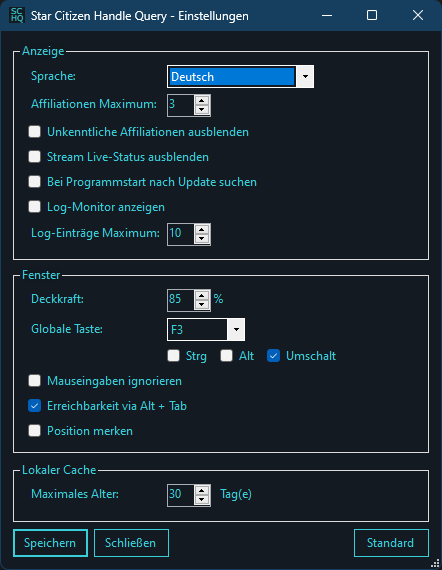
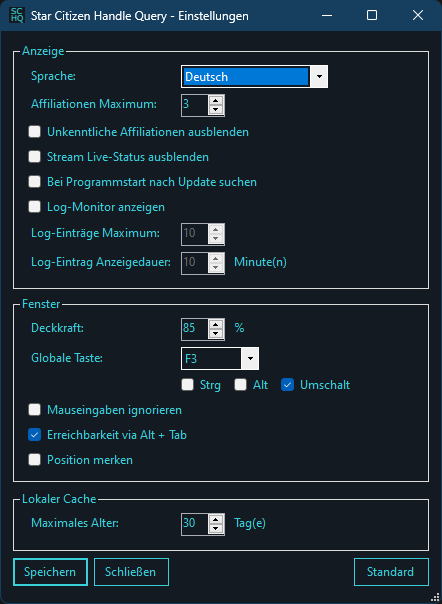
Position angepasst + Screenshot aktualisiert

Changed region(s): [[0.0, 0.0, 1.0, 0.9842], [0.9706, 0.9842, 1.0, 1.0]]

diff --git a/Star Citizen Handle Query/Dialogs/FormSettings.Designer.cs b/Star Citizen Handle Query/Dialogs/FormSettings.Designer.cs
@@ -351,7 +351,7 @@
       // LabelLogEintragAnzeigedauerMinuten
       // 
       this.LabelLogEintragAnzeigedauerMinuten.AutoSize = true;
-      this.LabelLogEintragAnzeigedauerMinuten.Location = new System.Drawing.Point(224, 211);
+      this.LabelLogEintragAnzeigedauerMinuten.Location = new System.Drawing.Point(218, 211);
       this.LabelLogEintragAnzeigedauerMinuten.Name = "LabelLogEintragAnzeigedauerMinuten";
       this.LabelLogEintragAnzeigedauerMinuten.Size = new System.Drawing.Size(60, 15);
       this.LabelLogEintragAnzeigedauerMinuten.TabIndex = 12;
